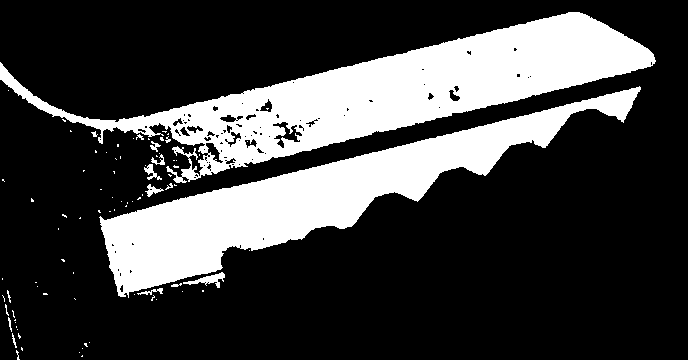
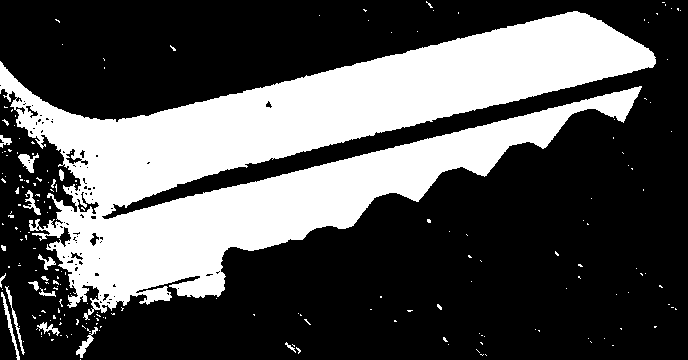
Started algorithm for patching holes

diff --git a/Source/main.py b/Source/main.py
@@ -41,6 +41,47 @@ def save_image(img, tag):
     # tag to differentiate key from keyway
     img.save("Pics/Outputs/" + COMM_ARGUMENTS["output"] + "(" + tag + ")" + ".png")
 
+def remove_holes(pix, x, y):
+    streak_size = 10
+    current_streak = 0
+    new_streak = 0
+    black = False
+    
+    for i in range(y):
+        for j in range(x):
+            pixel = pix[j, i][0]
+            if pixel == 255:
+                if black == True:
+                    current_streak += 1
+                    new_streak = 0
+                elif current_streak >= streak_size:
+                    pix[j, i] = (255, 255, 255)
+                    black = True
+                    new_streak += 1
+                else:
+                    black = True
+                    new_streak += 1
+            
+            else:
+                if black == False:
+                    current_streak += 1
+                    new_streak = 0
+                elif current_streak >= streak_size:
+                    pix[j, i] = (0, 0, 0)
+                    black = False
+                    new_streak += 1
+                else:
+                    black = False
+                    current_streak = 0
+                    new_streak += 1
+            
+            if new_streak > current_streak:
+                black = not black
+                new_streak = 0
+                current_streak = 0
+    return pix
+                
+
 def main(): # calls other functions and tracks time
     img = open_image(COMM_ARGUMENTS["k_input"])
     x = img.size[0]
@@ -48,6 +89,7 @@ def main(): # calls other functions and tracks time
     pix = img.load()
 
     pix = convert_to_bw(pix, x, y)
+    pix = remove_holes(pix, x, y)
     save_image(img, "KEY")
 
 if __name__ == "__main__":
